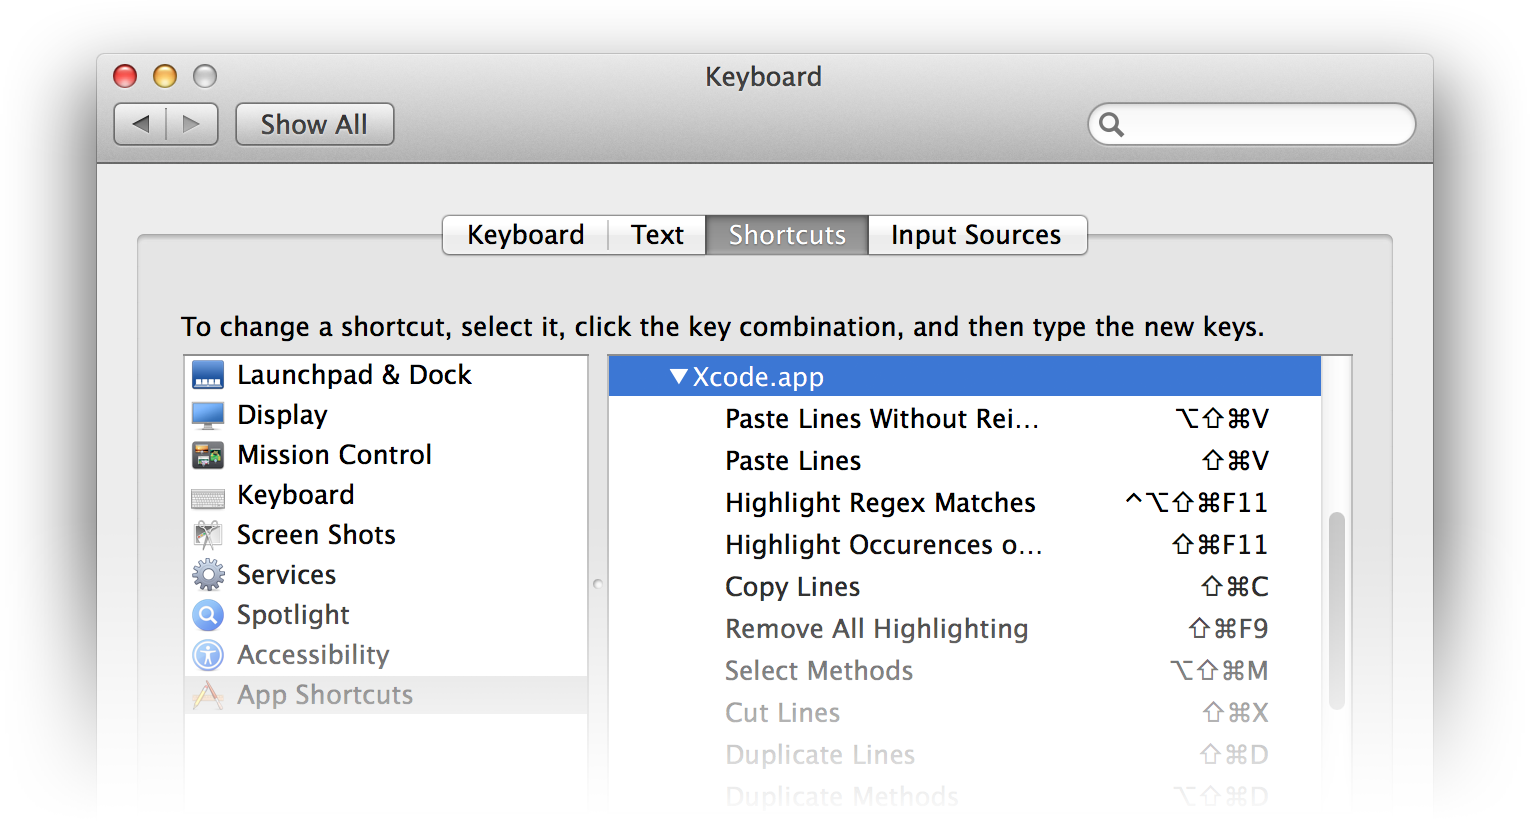
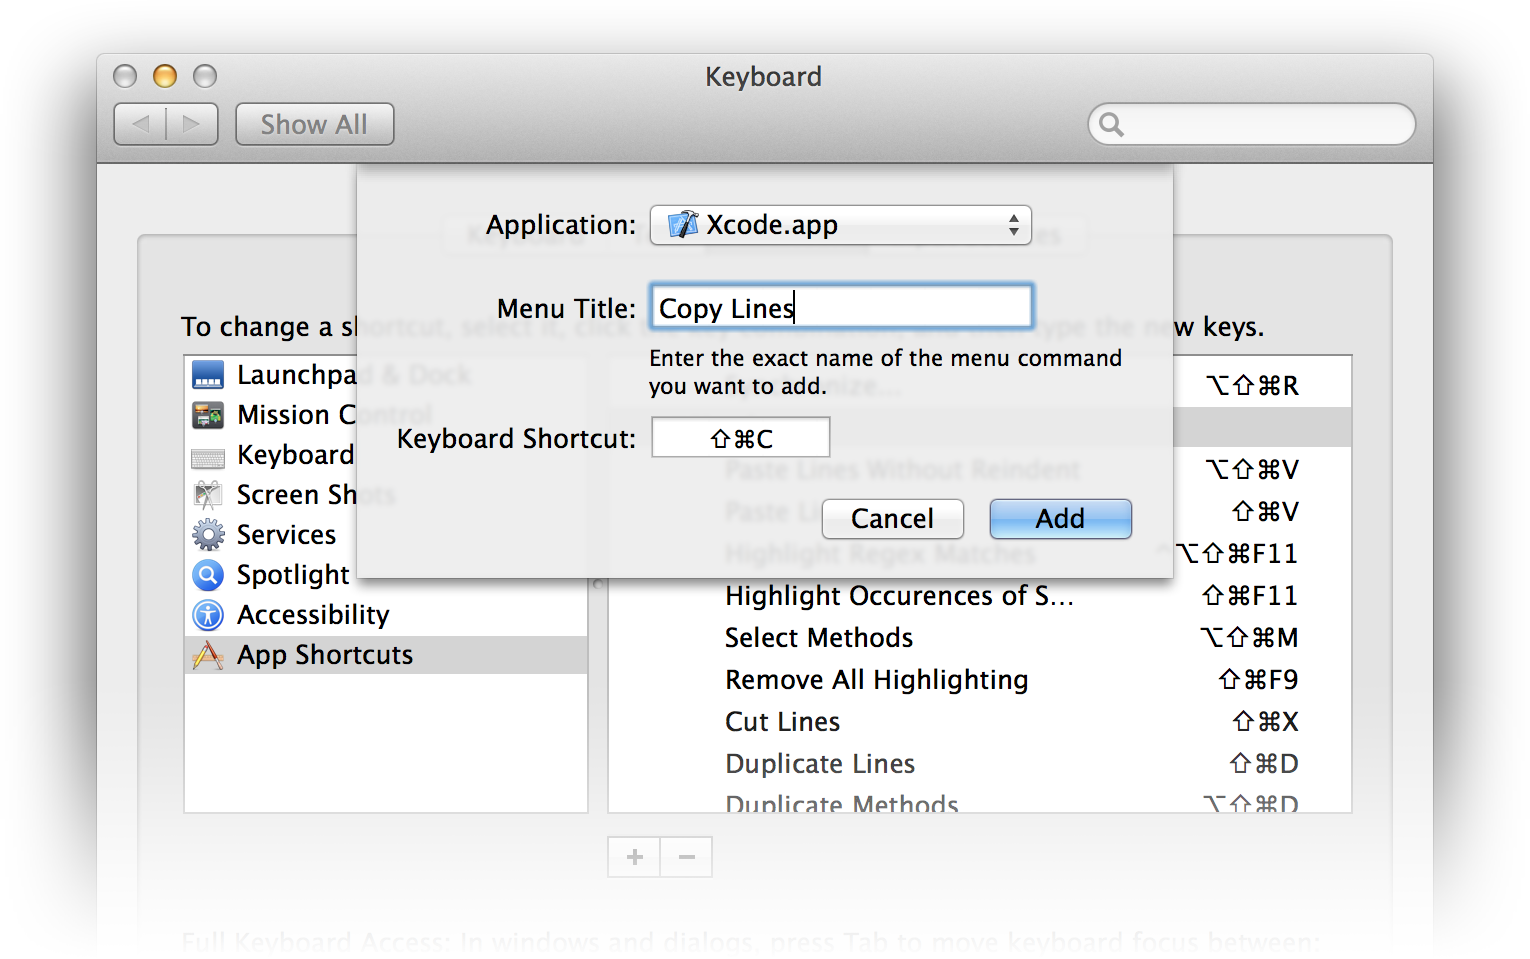
Updated readme to clarify how to setup keyboard shortcuts.

diff --git a/README.md b/README.md
@@ -27,10 +27,12 @@ XcodeBoost automates some tedious operations such as **extracting method declara
 ## Installation
 
 1. Install through [Alcatraz](https://github.com/supermarin/Alcatraz) or download the source and build the XcodeBoost target, then restart Xcode.
-2. Assign a keyboard shortcut to each XcodeBoost menu item through System Preferences' *Keyboard Shortcuts* panel.
-
-![image](Images/shortcuts.png)
-
-<div style="text-align: center; margin-top: 60px;">
-	<img src="Images/menu.png"/>
-</div>
+2. Assign keyboard shortcuts to XcodeBoost's menu items through System Preferences' *Keyboard Shortcuts* panel.
+	- Add Xcode.app in "App Shortcuts" if not already present.
+	- For each XcodeBoost menu item that you wish to trigger using the keyboard, add a shortcut and fill the "Menu Title" field with the exact name of the menu item, like so:
+	
+	![image](Images/shortcuts.png)
+	
+	- Suggested keyboard shortcuts:
+	
+	![image](Images/menu.png)
